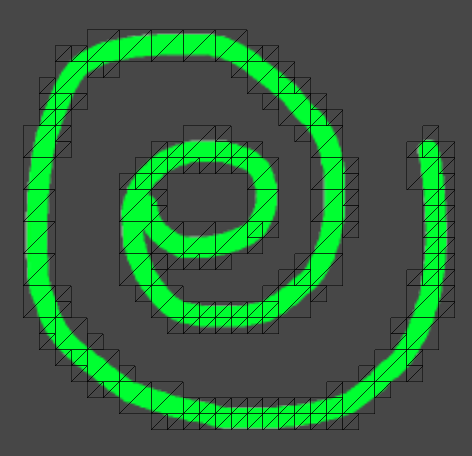
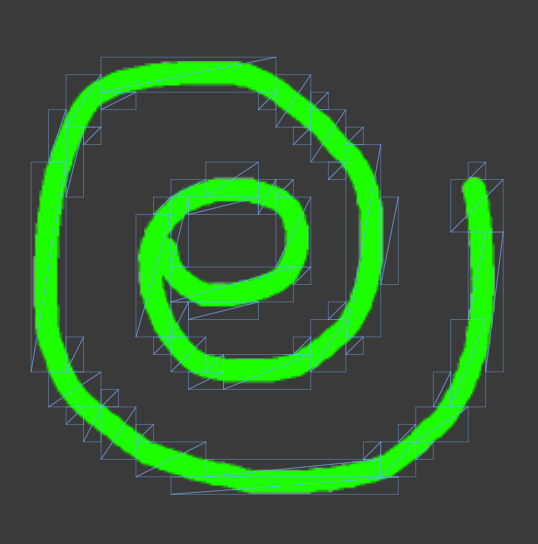
最適化処理の追加

diff --git a/Assets/nobnak/Subdivision/QuadtreeContour.cs b/Assets/nobnak/Subdivision/QuadtreeContour.cs
@@ -13,17 +13,18 @@ namespace nobnak.Subdivision {
 			this._img = img;
 		}
 		
-		public Mesh Build(int recursionLevel, float alphaThreshold) {
+		public Mesh Build(int recursionLevel, float alphaThreshold, bool optimization) {
 			recursionLevel = recursionLevel <= 0 ? 1 : recursionLevel;
 			_alphaThreshold = Mathf.Clamp01(alphaThreshold);
 			
 			var quads = BuildQuads (recursionLevel);
-			//quads = Optimize (quads);
+			if (optimization)
+				quads = Optimize (quads);
 			return GenerateMesh (quads);
 		}
 
-		List<int> BuildQuads (int recursionLevel) {
-			var quads = new List<int>();
+		List<Quad> BuildQuads (int recursionLevel) {
+			var quads = new List<Quad>();
 			var smallerSize = Mathf.Min(_img.width, _img.height);
 			var nx = _img.width / smallerSize;
 			var ny = _img.height / smallerSize;
@@ -33,16 +34,17 @@ namespace nobnak.Subdivision {
 					var miny = y * smallerSize;
 					var maxx = minx + smallerSize;
 					var maxy = miny + smallerSize;
-					quads.AddRange(Divide(minx, miny, maxx, maxy, recursionLevel));
+					var quad = new Quad(minx, miny, maxx, maxy);
+					quads.AddRange(Divide(quad, recursionLevel));
 				}
 			}
 			return quads;
 		}
 		
-		List<int> Optimize(List<int> quads) {
+		List<Quad> Optimize(List<Quad> quads) {
 			var edge2quads = new Dictionary<IntEdge, Quad>();
-			for (var i = 0; i < quads.Count; i+=4) {
-				var quad = new Quad(quads[i], quads[i+1], quads[i+2], quads[i+3]);
+			for (var i = 0; i < quads.Count; i++) {
+				var quad = quads[i];
 				Quad jointed = default(Quad);
 				bool found = false;
 				foreach (var e in quad.Edges) {
@@ -66,23 +68,25 @@ namespace nobnak.Subdivision {
 						edge2quads.Remove(e);
 				}
 				var merged = Quad.Merge(quad, jointed);
-				
+				quads.Add(merged);
 			}
-			return quads;
+			var uniqQuads = new HashSet<Quad>(edge2quads.Values);
+			return new List<Quad>(uniqQuads);
 			
 		}
 
-		Mesh GenerateMesh (List<int> quads) {
+		Mesh GenerateMesh (List<Quad> quads) {
 			var rWidth = 1f / _img.width;
 			var rHeight = 1f / _img.height;
 			
 			var intVertices = new List<IntVertex>();
 			var triangles = new List<int>();
-			for (int i = 0; i < quads.Count; i+=4) {
-				var minx = quads[i];
-				var miny = quads[i+1];
-				var maxx = quads[i+2];
-				var maxy = quads[i+3];
+			for (int i = 0; i < quads.Count; i++) {
+				var quad = quads[i];
+				var minx = quad.minx;
+				var miny = quad.miny;
+				var maxx = quad.maxx;
+				var maxy = quad.maxy;
 				var vertexIndex = intVertices.Count;
 				triangles.Add(vertexIndex);
 				triangles.Add(vertexIndex + 3);
@@ -120,30 +124,34 @@ namespace nobnak.Subdivision {
 			return mesh;
 		}
 		
-		public int[] Divide(int minx, int miny, int maxx, int maxy, int recursion) {
+		public Quad[] Divide(Quad quad, int recursion) {
+			var minx = quad.minx;
+			var miny = quad.miny;
+			var maxx = quad.maxx;
+			var maxy = quad.maxy;
 			if (recursion == 0) {
 				for (var y = miny; y < maxy; y++) {
 					for (var x = minx; x < maxx; x++) {
 						var c = _img.GetPixel(x, y);
 						if (c.a >= _alphaThreshold)
-							return new int[]{ minx, miny, maxx, maxy };
+							return new Quad[]{ quad };
 					}
 				}
-				return new int[0];
+				return new Quad[0];
 			}
 			
 			var midx = (minx + maxx) >> 1;
 			var midy = (miny + maxy) >> 1;
-			var quad0 = Divide(minx, miny, midx, midy, recursion - 1);
-			var quad1 = Divide(midx, miny, maxx, midy, recursion - 1);
-			var quad2 = Divide(minx, midy, midx, maxy, recursion - 1);
-			var quad3 = Divide(midx, midy, maxx, maxy, recursion - 1);
+			var quad0 = Divide(new Quad(minx, miny, midx, midy), recursion - 1);
+			var quad1 = Divide(new Quad(midx, miny, maxx, midy), recursion - 1);
+			var quad2 = Divide(new Quad(minx, midy, midx, maxy), recursion - 1);
+			var quad3 = Divide(new Quad(midx, midy, maxx, maxy), recursion - 1);
 			var nQuads = quad0.Length + quad1.Length + quad2.Length + quad3.Length;
 			
-			if (quad0.Length == 4 && quad1.Length == 4 && quad2.Length == 4 && quad3.Length == 4)
-				return new int[]{ minx, miny, maxx, maxy };
+			if (quad0.Length == 1 && quad1.Length == 1 && quad2.Length == 1 && quad3.Length == 1)
+				return new Quad[]{ quad };
 			
-			var list = new List<int>(nQuads);
+			var list = new List<Quad>(nQuads);
 			list.AddRange(quad0);
 			list.AddRange(quad1);
 			list.AddRange(quad2);
@@ -194,7 +202,7 @@ namespace nobnak.Subdivision {
 				return 229 * (x0 + 151 * (y0 + 277 * (x1 + 347 * y1)));
 			}
 			public override bool Equals (object obj) {
-				if (obj.GetType() != typeof(IntEdge))
+				if (obj == null || obj.GetType() != typeof(IntEdge))
 					return false;
 				var cmp = (IntEdge)obj;
 				return cmp.x0 == x0 && cmp.y0 == y0 && cmp.x1 == x1 && cmp.y1 == y1;
@@ -235,6 +243,16 @@ namespace nobnak.Subdivision {
 				} else {
 					throw new System.InvalidOperationException();
 				}
+			}
+			
+			public override int GetHashCode () {
+				return 491 * (minx + 1129 * (miny + 131 * (maxx + 859 * maxy)));
+			}
+			public override bool Equals (object obj) {
+				if (obj == null || obj.GetType() != typeof(Quad))
+					return false;
+				var q = (Quad)obj;
+				return q.minx == minx && q.miny == miny && q.maxx == maxx && q.maxy == maxy;
 			}
 		}
 

diff --git a/Assets/Editor/QuadtreeContourGeneratorEditor.cs b/Assets/Editor/QuadtreeContourGeneratorEditor.cs
@@ -13,6 +13,7 @@ public class QuadtreeContourGeneratorEditor : Editor {
 	public override void OnInspectorGUI() {
 		_gen.subdivisionLevel = EditorGUILayout.IntSlider("Subdivision", _gen.subdivisionLevel, 0, 10);
 		_gen.alphaThreshold = Mathf.Clamp01(EditorGUILayout.FloatField("Alpha Theshold", _gen.alphaThreshold));
+		_gen.optimization = EditorGUILayout.Toggle("Optimization", _gen.optimization);
 		
 		var invalidated = GUILayout.Button("Update");
 		
@@ -28,7 +29,7 @@ public class QuadtreeContourGeneratorEditor : Editor {
 		var settings = ChangeTextureSettings(image, true, TextureImporterFormat.RGBA32);
 
 		var quad = new nobnak.Subdivision.QuadtreeContour(image);
-		var mesh = quad.Build(_gen.subdivisionLevel, _gen.alphaThreshold);
+		var mesh = quad.Build(_gen.subdivisionLevel, _gen.alphaThreshold, _gen.optimization);
 		_gen.GetComponent<MeshFilter>().mesh = mesh;
 
 		RestoreTextureSettings(image, settings);

diff --git a/Assets/nobnak/Subdivision/QuadtreeContourGenerator.cs b/Assets/nobnak/Subdivision/QuadtreeContourGenerator.cs
@@ -5,4 +5,5 @@ using UnityEngine;
 public class QuadtreeContourGenerator : MonoBehaviour {
 	public int subdivisionLevel = 1;
 	public float alphaThreshold = 1e-7f;
+	public bool optimization = false;
 }
